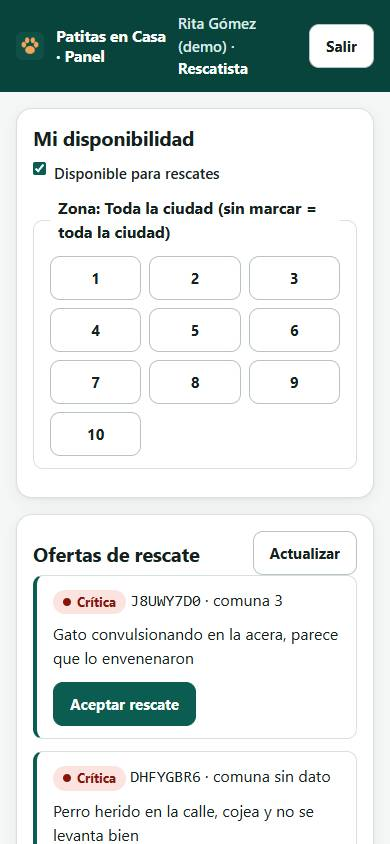
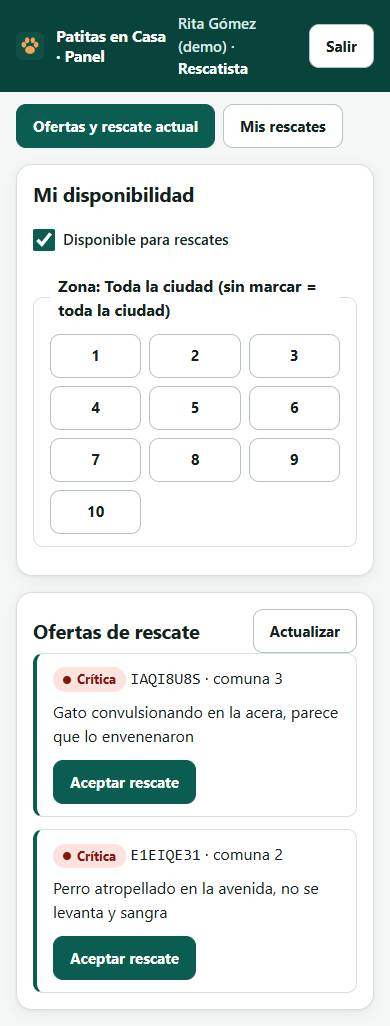
docs(manual): capturas nuevas de cada rol y manual paso a paso (#254)
Claude-Session: https://claude.ai/code/session_01CuuStFCLPiwgrtfEtjN9jz

diff --git a/docs/manual-usuario.md b/docs/manual-usuario.md
@@ -18,8 +18,9 @@ atender. Este manual explica, con capturas, qué hace cada persona en el sistema
 | [Administrador](#administrador) | Botón «Entrar como personal» | Sí |
 | [Alcaldía](#alcaldía) | Botón «Entrar como personal» | Sí, la crea el administrador |
 
-Las capturas se tomaron con los **datos de demostración** (nombres, reportes y animales
-inventados).
+Las capturas se tomaron el 4 de noviembre de 2026 con los **datos de demostración** (nombres,
+reportes y animales inventados). El ciudadano, el rescatista y el adoptante se muestran en el
+celular (390 px); los demás, en un computador.
 
 ---
 
@@ -48,10 +49,18 @@ Cualquier persona que encuentre un perro o un gato en peligro. **No necesita cue
 3. En **Ubicación** escribe el barrio o la dirección, o toca **Usar mi GPS** (el teléfono
    te pedirá permiso).
 4. Si sabes la **comuna**, elígela: así avisan primero a los rescatistas que están cerca.
-5. Si puedes, adjunta un **video** corto (máximo 60 segundos). Grábalo de lado y que se vea
-   el animal completo caminando: ayuda a saber si cojea o no se puede parar.
-6. Si quieres que te avisen, deja tu correo o teléfono (es opcional y se guarda cifrado).
+5. Si puedes, agrega un **video** (máximo 60 segundos y 50 MB): toca **Grabar video** para
+   grabarlo ahí mismo con la cámara de atrás, o **Elegir de la galería** si ya lo tienes.
+   Grábalo de lado y que se vea el animal completo caminando: ayuda a saber si cojea o no se
+   puede parar. Si no te gusta, toca **Repetir**.
+6. Si quieres que te avisen, deja tu correo o teléfono y marca la autorización (es opcional y
+   se guarda cifrado). Te avisaremos cuando un veterinario lo revise, cuando lo rescaten y
+   cuando llegue al refugio.
 7. Toca **Enviar reporte**.
+
+Si algo falta, el formulario lo dice debajo del campo, en rojo: por ejemplo «Describe un poco
+más: mínimo 20 caracteres» o «Escribe dónde está el animal o toca «Usar mi GPS»». Si escribes
+letras al azar, te pedirá «Describe con palabras qué le pasa al animal».
 
 Si no hay señal, el reporte queda guardado en el teléfono y se envía solo cuando vuelva la
 conexión.
@@ -90,32 +99,54 @@ Al entrar ve la **cola**: los reportes que esperan revisión, primero los más g
 
 ![Detalle de un reporte](manual/06-veterinario-reporte.jpg)
 
-Al tocar un reporte aparece a la derecha:
+Al tocar un reporte aparece a la derecha (en el celular, debajo):
 
+- qué pasó, dónde (con enlace a Google Maps) y hace cuánto llegó;
 - la prioridad sugerida y su confianza;
 - las **evidencias**: por qué la IA sugirió esa prioridad (palabras como «atropellado» o
-  «sangra»);
-- el análisis del **video**, si el ciudadano envió uno.
+  «sangra»); toda sugerencia crítica o alta trae al menos una;
+- si hay otro reporte a menos de 200 m y 2 horas, el aviso de **posible duplicado**.
 
-Después elige una de tres acciones:
+### 3. Análisis del video
 
-- **Confirmar**: está de acuerdo con la sugerencia.
-- **Ajustar prioridad…**: la cambia (ver abajo).
-- **Descartar reporte…**: si es falso o repetido, con una justificación.
+![Análisis de video con la vista previa](manual/06c-veterinario-video.jpg)
 
-Confirmado o descartado, el reporte sale de la cola y no se puede volver a decidir. Si
-queda crítico o alto, se avisa a los rescatistas.
+Si el ciudadano envió un video, más abajo está **Análisis de video**:
 
-### 3. Ajustar la prioridad
+- el estado: «en espera de análisis», «analizando», «listo», «no concluyente» o «no se pudo
+  analizar». Mientras se analiza, la pantalla se actualiza sola cada 15 segundos; puedes decidir
+  sin esperarlo;
+- la prioridad que sugiere el video, con su seguridad y las razones («cojea: una pata se mueve
+  65 % distinto de su par»);
+- si texto y video no coinciden, un aviso: **gana la más alta**;
+- la **vista previa**: el video en baja calidad con los puntos del cuerpo dibujados. Tócalo para
+  reproducirlo. Se borra a los 7 días o cuando se cierra el reporte. Si el análisis no la trae,
+  la pantalla lo dice.
+
+### 4. Confirmar, ajustar o descartar
 
 ![Ajustar la prioridad](manual/06b-veterinario-ajustar.jpg)
 
-Elige la nueva prioridad. Si es distinta de la sugerida, el sistema pide una
-**justificación** (al menos 10 caracteres y 5 letras). Queda registrada con su nombre.
+- **Confirmar**: está de acuerdo con la sugerencia.
+- **Ajustar prioridad…**: elige otra; si es distinta de la sugerida, el sistema pide una
+  **justificación** (al menos 10 caracteres y 5 letras). Queda registrada con su nombre.
+- **Descartar reporte…**: si es falso o repetido, con una justificación.
 
-### 4. Refugio
+Confirmado o descartado, el reporte sale de la cola y no se puede volver a decidir. Si queda
+crítico o alto, se avisa a los rescatistas. **Ver estado de los avisos** dice si el correo ya
+salió.
 
-![Animales del refugio](manual/07-veterinario-refugio.jpg)
+### 5. Historial
+
+![Historial del veterinario](manual/07-veterinario-historial.jpg)
+
+En **Historial** ve todo lo que confirmó, ajustó o descartó, del más reciente al más viejo:
+código, fecha, prioridad sugerida y final, justificación y en qué va el caso ahora. En el
+celular cada fila se ve como una tarjeta.
+
+### 6. Refugio
+
+![Animales del refugio](manual/07b-veterinario-refugio.jpg)
 
 En **Refugio** ve cuántos cupos hay ocupados y los animales del refugio. Al tocar el nombre
 de un animal abre su **ficha clínica**, donde puede agregar notas al historial (las notas no
@@ -127,18 +158,35 @@ se borran).
 
 Voluntario que va por el animal. Usa el panel **desde el celular**.
 
-![Pantalla del rescatista](manual/08-rescatista.jpg)
+### 1. Ofertas
+
+![Ofertas de rescate](manual/08-rescatista.jpg)
 
 1. En **Mi disponibilidad** marca **Disponible para rescates** cuando pueda salir.
 2. En **Zona** marca las comunas donde puede ir. Si no marca ninguna, recibe toda la ciudad.
 3. En **Ofertas de rescate** aparecen los casos críticos y altos ya confirmados por el
-   veterinario. Toca **Aceptar rescate** en el que vaya a atender. Solo una persona puede
-   aceptar cada rescate, y cada rescatista atiende uno a la vez.
-4. Al llegar toca **Llegué al sitio**; al terminar registra el **resultado** (por ejemplo, trasladado
-   al refugio). Si no puede seguir, **Liberar** lo devuelve a los demás.
+   veterinario, con la comuna (la dirección exacta se ve al aceptar). Toca **Aceptar rescate**
+   en el que vaya a atender. Solo una persona puede aceptar cada rescate, y cada rescatista
+   atiende uno a la vez.
 
-Si nadie acepta un caso a tiempo (15 minutos los críticos), se avisa al coordinador y el
-caso se ofrece a toda la ciudad.
+### 2. Rescate en curso
+
+![Rescate en curso](manual/08b-rescatista-en-curso.jpg)
+
+4. Ahí ve la dirección. Al llegar toca **Llegué al sitio** (queda la hora).
+5. Al terminar elige el **resultado** (trasladado al refugio, atendido en el sitio, no
+   encontrado o fallecido) y toca **Registrar resultado**. Si no puede seguir, **Liberar** lo
+   devuelve a los demás.
+
+Si nadie acepta un caso a tiempo (15 minutos los críticos, 30 los altos), se avisa al
+coordinador y el caso se ofrece a toda la ciudad.
+
+### 3. Mis rescates
+
+![Mis rescates](manual/08c-rescatista-mis-rescates.jpg)
+
+En **Mis rescates** están los rescates que aceptó, del más reciente al más viejo: código, cuándo
+lo aceptó, a qué hora llegó, el resultado y cómo va el caso. No muestra la dirección.
 
 ---
 
@@ -153,7 +201,9 @@ Maneja los cupos, los animales y las adopciones de su refugio.
 - La barra muestra cuántos cupos están ocupados. Al llegar al **90 %** el sistema avisa a
   coordinación; sin cupo, **no deja** registrar más ingresos.
 - **Registrar ingreso**: nombre, especie, estado de salud y si está vacunado o
-  esterilizado. Más abajo están los animales del refugio, su ficha y el botón para registrar
+  esterilizado. Si el animal llega de un rescate, escribe el **código del reporte** (lo ve el
+  rescatista en «Mis rescates»): así el ciudadano recibe el aviso de que llegó al refugio. Si
+  el código no existe, el formulario lo dice. Más abajo están los animales del refugio, su ficha y el botón para registrar
   el **egreso** (adopción, traslado, fallecimiento…), que libera el cupo.
 
 ### 2. Adopciones
@@ -244,7 +294,10 @@ PDF. No ve nombres, direcciones, correos ni códigos.
 ## Preguntas frecuentes
 
 - **Olvidé el código de mi reporte.** Por privacidad no se puede buscar de otra forma. Si
-  dejaste tu correo, el aviso de que un veterinario revisó tu reporte trae el código.
+  dejaste tu correo, los avisos (revisado, rescatado, en el refugio) traen el código.
+- **Mandé muchos reportes y me dice que espere.** Desde una misma conexión se reciben hasta
+  20 reportes cada 15 minutos. Si es una emergencia, espera los minutos que indica y vuelve a
+  enviarlo.
 - **Me dice «Demasiados intentos».** Por seguridad, después de varios intentos fallidos hay
   que esperar unos minutos. El mensaje dice cuánto.
 - **No veo una pestaña que otra persona sí ve.** Cada rol ve solo lo suyo. Si te falta algo
@@ -255,18 +308,16 @@ PDF. No ve nombres, direcciones, correos ni códigos.
 
 ## Para quien mantiene el sistema
 
-Las capturas se toman solas con los datos de demostración, sin tocar la base real:
+Las capturas se toman solas con los datos de demostración, sin tocar la base real. Para que
+salgan el video y los historiales se usa la instancia local con PostgreSQL de
+`docs/aprende/e2e.md` (base `patitas_e2e`, puerto 8010) con un reporte que tenga video
+analizado; con el servidor en memoria (`python servidor_demo.py 8765`) salen las demás.
 
 ```bash
 cd scripts/accesibilidad
 npm ci
-```
-```bash
-python servidor_demo.py 8765
-```
-```bash
-node capturas.mjs
+PATITAS_DEMO_CONTRASENA=<la misma de la instancia> node capturas.mjs http://127.0.0.1:8010
 ```
 
-(Las dos últimas en terminales distintas, con la misma `PATITAS_DEMO_CONTRASENA` inventada en
-las dos; en Windows con Edge, agrega `A11Y_CANAL=msedge`.)
+En Windows con Edge, agrega `A11Y_CANAL=msedge`. El script acepta un rescate y registra un
+resultado: úsalo solo en una base de prueba.

diff --git a/CHANGELOG.md b/CHANGELOG.md
@@ -5,6 +5,7 @@ Formato basado en *Keep a Changelog*; versiones según SemVer.
 ## [Sin publicar]
 
 ### Agregado
+- Manual de usuario (#254): 21 capturas nuevas tomadas con Playwright sobre PostgreSQL y datos de demostración (ciudadano a 390 px; veterinario con análisis de video, vista previa e historial; rescatista con rescate en curso y «Mis rescates»; coordinador con el código del reporte en el ingreso; adoptante, administrador y Alcaldía) y `docs/manual-usuario.md` paso a paso por rol. `capturas.mjs` usa por defecto la instancia local de `e2e.md`.
 - `docs/aprende/sustentacion.md` (#247): 60 preguntas de jurado con respuesta corta y el archivo donde se ve en el código, y un recorrido de 5 minutos para la demo en vivo.
 - Documentación de tesis, parte 2 (#243): `docs/tesis/c4.md` (contexto, contenedores y componentes en Mermaid), `docs/tesis/pruebas.md` (plan y reporte con los números del CI: 864 pruebas, 97,22 % de cobertura, 58 de Vitest, 8 e2e, 50 revisiones de axe-core sin fallas) y la matriz de trazabilidad movida a `docs/tesis/trazabilidad.md` y puesta al día (RNF-08 con la vista previa, RNF-15 activo, Mailjet, PostgreSQL 18 en Neon, historiales y avisos al ciudadano).
 - Documentación de tesis generada desde el código (#243): `python -m scripts.tesis.generar_docs` escribe en `docs/tesis/` el E-R en Mermaid y el diccionario de datos (21 tablas, desde `app/bd/esquema.py`) y el catálogo de las 67 rutas con quién puede usarlas, sus códigos de respuesta y los requisitos que cita su código. Una prueba comprueba que el catálogo y el diccionario no dejan nada por fuera.
